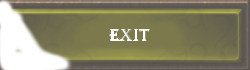
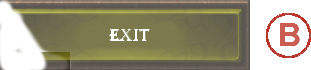
New Class. How to Play screen, Left one comment worth looking at line 38,39

diff --git a/Runner/Game1.cs b/Runner/Game1.cs
@@ -32,7 +32,8 @@ namespace Runner
     {
         public enum GameState
         {
-            introVideoPlaying, gamePlaying, startMenu
+            introVideoPlaying, gamePlaying, startMenu, howToPlay,
+            highScore
         }
 
         VideoPlayer player;
@@ -50,10 +51,9 @@ namespace Runner
         
         private GraphicsDeviceManager graphics;
         private SpriteBatch spriteBatch;
-        private MenuScreen menu = new MenuScreen();
 
-        //private Song bgMusic, menuMetal; 
-        //Extra Note: .mp3's passed through pipeline are automatically recognized as songs not effects
+        private MenuScreen menu = new MenuScreen();
+        private HowToPlay hToP = new HowToPlay();
 
         private SoundEffect bgEffect, introEffect;//16-bit wav
         private SoundEffectInstance introMusic, game1;
@@ -148,9 +148,11 @@ namespace Runner
             background0.LoadContent(this.Content, "FourTrees");
             background1.LoadContent(this.Content, "FourTrees"); //Tiles funky, placement or image?
 
-            //menu buttons
+            //menu bg and btns
             menu.LoadContent(this.Content);
 
+            //HowToPlay sprite
+            hToP.LoadContent(this.Content);
 
             //Animated Sprites & Rick::AnimatedSprites
             spookySkeleton.LoadContent(this.Content, "spooky512Sheet");
@@ -187,9 +189,12 @@ namespace Runner
             //Control Menu Sound and Video start/stops //Needs Button added along with actions
             if (currentGameState == GameState.startMenu)
             {
-                menu.StartMenu(gameTime);
+                menu.StartMenu(gameTime, this);
             }
-
+            if(currentGameState == GameState.howToPlay)
+            {
+                hToP.HowToPlayMenu(gameTime);
+            }
             //Actual Gameplay stuff starts here, function and input
             if (currentGameState == GameState.gamePlaying)
             {
@@ -259,11 +264,11 @@ namespace Runner
 
         private void TileBackground()
         {
-            if (background0.Position.X < -background0.Size.Width + 900)
+            if (background0.Position.X < -background0.Size.Width + screenWidth)
             {
                 background1.Position.X = background0.Position.X + background0.Size.Width;
             }
-            if (background1.Position.X < -background1.Size.Width + 900)
+            if (background1.Position.X < -background1.Size.Width + screenWidth)
             {
                 background0.Position.X = background1.Position.X + background1.Size.Width;
             }
@@ -294,20 +299,27 @@ namespace Runner
             {
                 menu.Draw(this.spriteBatch);
             }
-
-            //All gameplay items here needs work on rickPunching
+            if(currentGameState == GameState.howToPlay)
+            {
+                hToP.Draw(this.spriteBatch);
+            }
+            //All gameplay items
             if(currentGameState == GameState.gamePlaying)
             {
                 background0.Draw(this.spriteBatch);
                 background1.Draw(this.spriteBatch);
 
                 spookySkeleton.Draw(this.spriteBatch, RickVector);
-                if(currentKboardState.IsKeyDown(Keys.F) == true) //Needs previous keyboard state to prevent button 
+                if (currentKboardState.IsKeyDown(Keys.F) == true) //Needs previous keyboard state to prevent button 
                 {
-                    spriteBatch.Draw(punching, new Rectangle(rick.Position.ToPoint(), new Point(70, 70)),Color.White);
-                    rick.Draw(this.spriteBatch, RickVector, empty);
+                    spriteBatch.Draw(punching, new Rectangle(rick.Position.ToPoint(), new Point(70, 70)), Color.White);
                 }
-                rick.Draw(this.spriteBatch, RickVector, walking);
+                else
+                {
+                    rick.Draw(this.spriteBatch, RickVector, walking);
+                }
+
+
 
                 //Timer
                 spriteBatch.DrawString(timerFont, $"Time Remaining: {(int)totalTimeStart / 60}:{totalTimeStart % 60:00.000}", new Vector2(10, 70), //70 is inbetween Leaves of trees
@@ -320,8 +332,3 @@ namespace Runner
     }
 }
 
-/********************
- * PEBBLE DISTRIBUTION
- * MICHAEL SWENSON: 50
- * JARRED SROUFE:   50
- * ******************/

diff --git a/Runner/MenuScreen.cs b/Runner/MenuScreen.cs
@@ -49,7 +49,7 @@ namespace Runner
             };
             menuBackground = new AnimatedSprite(3, 3)
             {
-                Position = new Vector2(0, 0)
+                Position = Vector2.Zero
             };
         }
 
@@ -65,22 +65,39 @@ namespace Runner
             backgroundMenuMusic = contentManager.Load<SoundEffect>("password");
         }
 
-        public void StartMenu(GameTime gameTime)
+        public void StartMenu(GameTime gameTime, Game1 game)
         {
             backgroundMusicInstance = backgroundMenuMusic.CreateInstance();
             if (menuMusicNotPlaying)
             {
                 backgroundMusicInstance.Volume = .4f;
+                backgroundMusicInstance.IsLooped = true;
                 backgroundMusicInstance.Play();
                 menuMusicNotPlaying = false;
             }
 
             menuBackground.Update(gameTime, Vector2.Zero, Vector2.Zero);
-            if (Keyboard.GetState().IsKeyDown(Keys.Enter))
+            if (Keyboard.GetState().IsKeyDown(Keys.A))
             {
                 backgroundMusicInstance.Stop();
                 backgroundMenuMusic.Dispose();
                 Game1.CurrentGameState = Game1.GameState.gamePlaying;
+            } else if (Keyboard.GetState().IsKeyDown(Keys.X))
+            {
+                Game1.CurrentGameState = Game1.GameState.howToPlay;
+            }
+            else if (Keyboard.GetState().IsKeyDown(Keys.Y))
+            {
+                backgroundMusicInstance.Stop();
+                backgroundMenuMusic.Dispose();
+                Game1.CurrentGameState = Game1.GameState.highScore;
+            }
+            else if (Keyboard.GetState().IsKeyDown(Keys.B))
+            {
+                backgroundMusicInstance.Stop();
+                backgroundMenuMusic.Dispose();
+                game.Exit();
+      
             }
         }
         public void Update(GameTime gameTime)

diff --git a/Runner/HowToPlay.cs b/Runner/HowToPlay.cs
@@ -1,0 +1,57 @@
+using Microsoft.Xna.Framework;
+using Microsoft.Xna.Framework.Audio;
+using Microsoft.Xna.Framework.Content;
+using Microsoft.Xna.Framework.Graphics;
+using Microsoft.Xna.Framework.Input;
+using System;
+using System.Collections.Generic;
+using System.Linq;
+using System.Text;
+using System.Threading.Tasks;
+
+
+namespace Runner
+{
+    class HowToPlay
+    {
+        private Sprite howToPlay;
+        private KeyboardState lastKBoardState;
+        private KeyboardState blankState;
+
+
+        public HowToPlay()
+        {
+            Initialize();
+        }
+
+        private void Initialize()
+        {
+            howToPlay = new Sprite
+            {
+                Position = Vector2.Zero
+            };
+        }
+
+        public void HowToPlayMenu(GameTime gameTime)
+        {
+            KeyboardState aCurrentKeyboardState = Keyboard.GetState();
+            //Big HEADS UP Might have to cheese it and use a Key Different then AXYB to navigate menus
+            //If you assign it B for instance it will close the game, A will start the game etc.
+            if (aCurrentKeyboardState.IsKeyDown(Keys.Z) && lastKBoardState.IsKeyUp(Keys.Z))
+            {
+                Game1.CurrentGameState = Game1.GameState.startMenu;
+            }
+            lastKBoardState = aCurrentKeyboardState;
+        }
+
+        public void LoadContent(ContentManager contentManager)
+        {
+            howToPlay.LoadContent(contentManager, "howToPlay");
+        }
+
+        public void Draw(SpriteBatch spriteBatch)
+        {
+            howToPlay.Draw(spriteBatch);
+        }
+    }
+}
